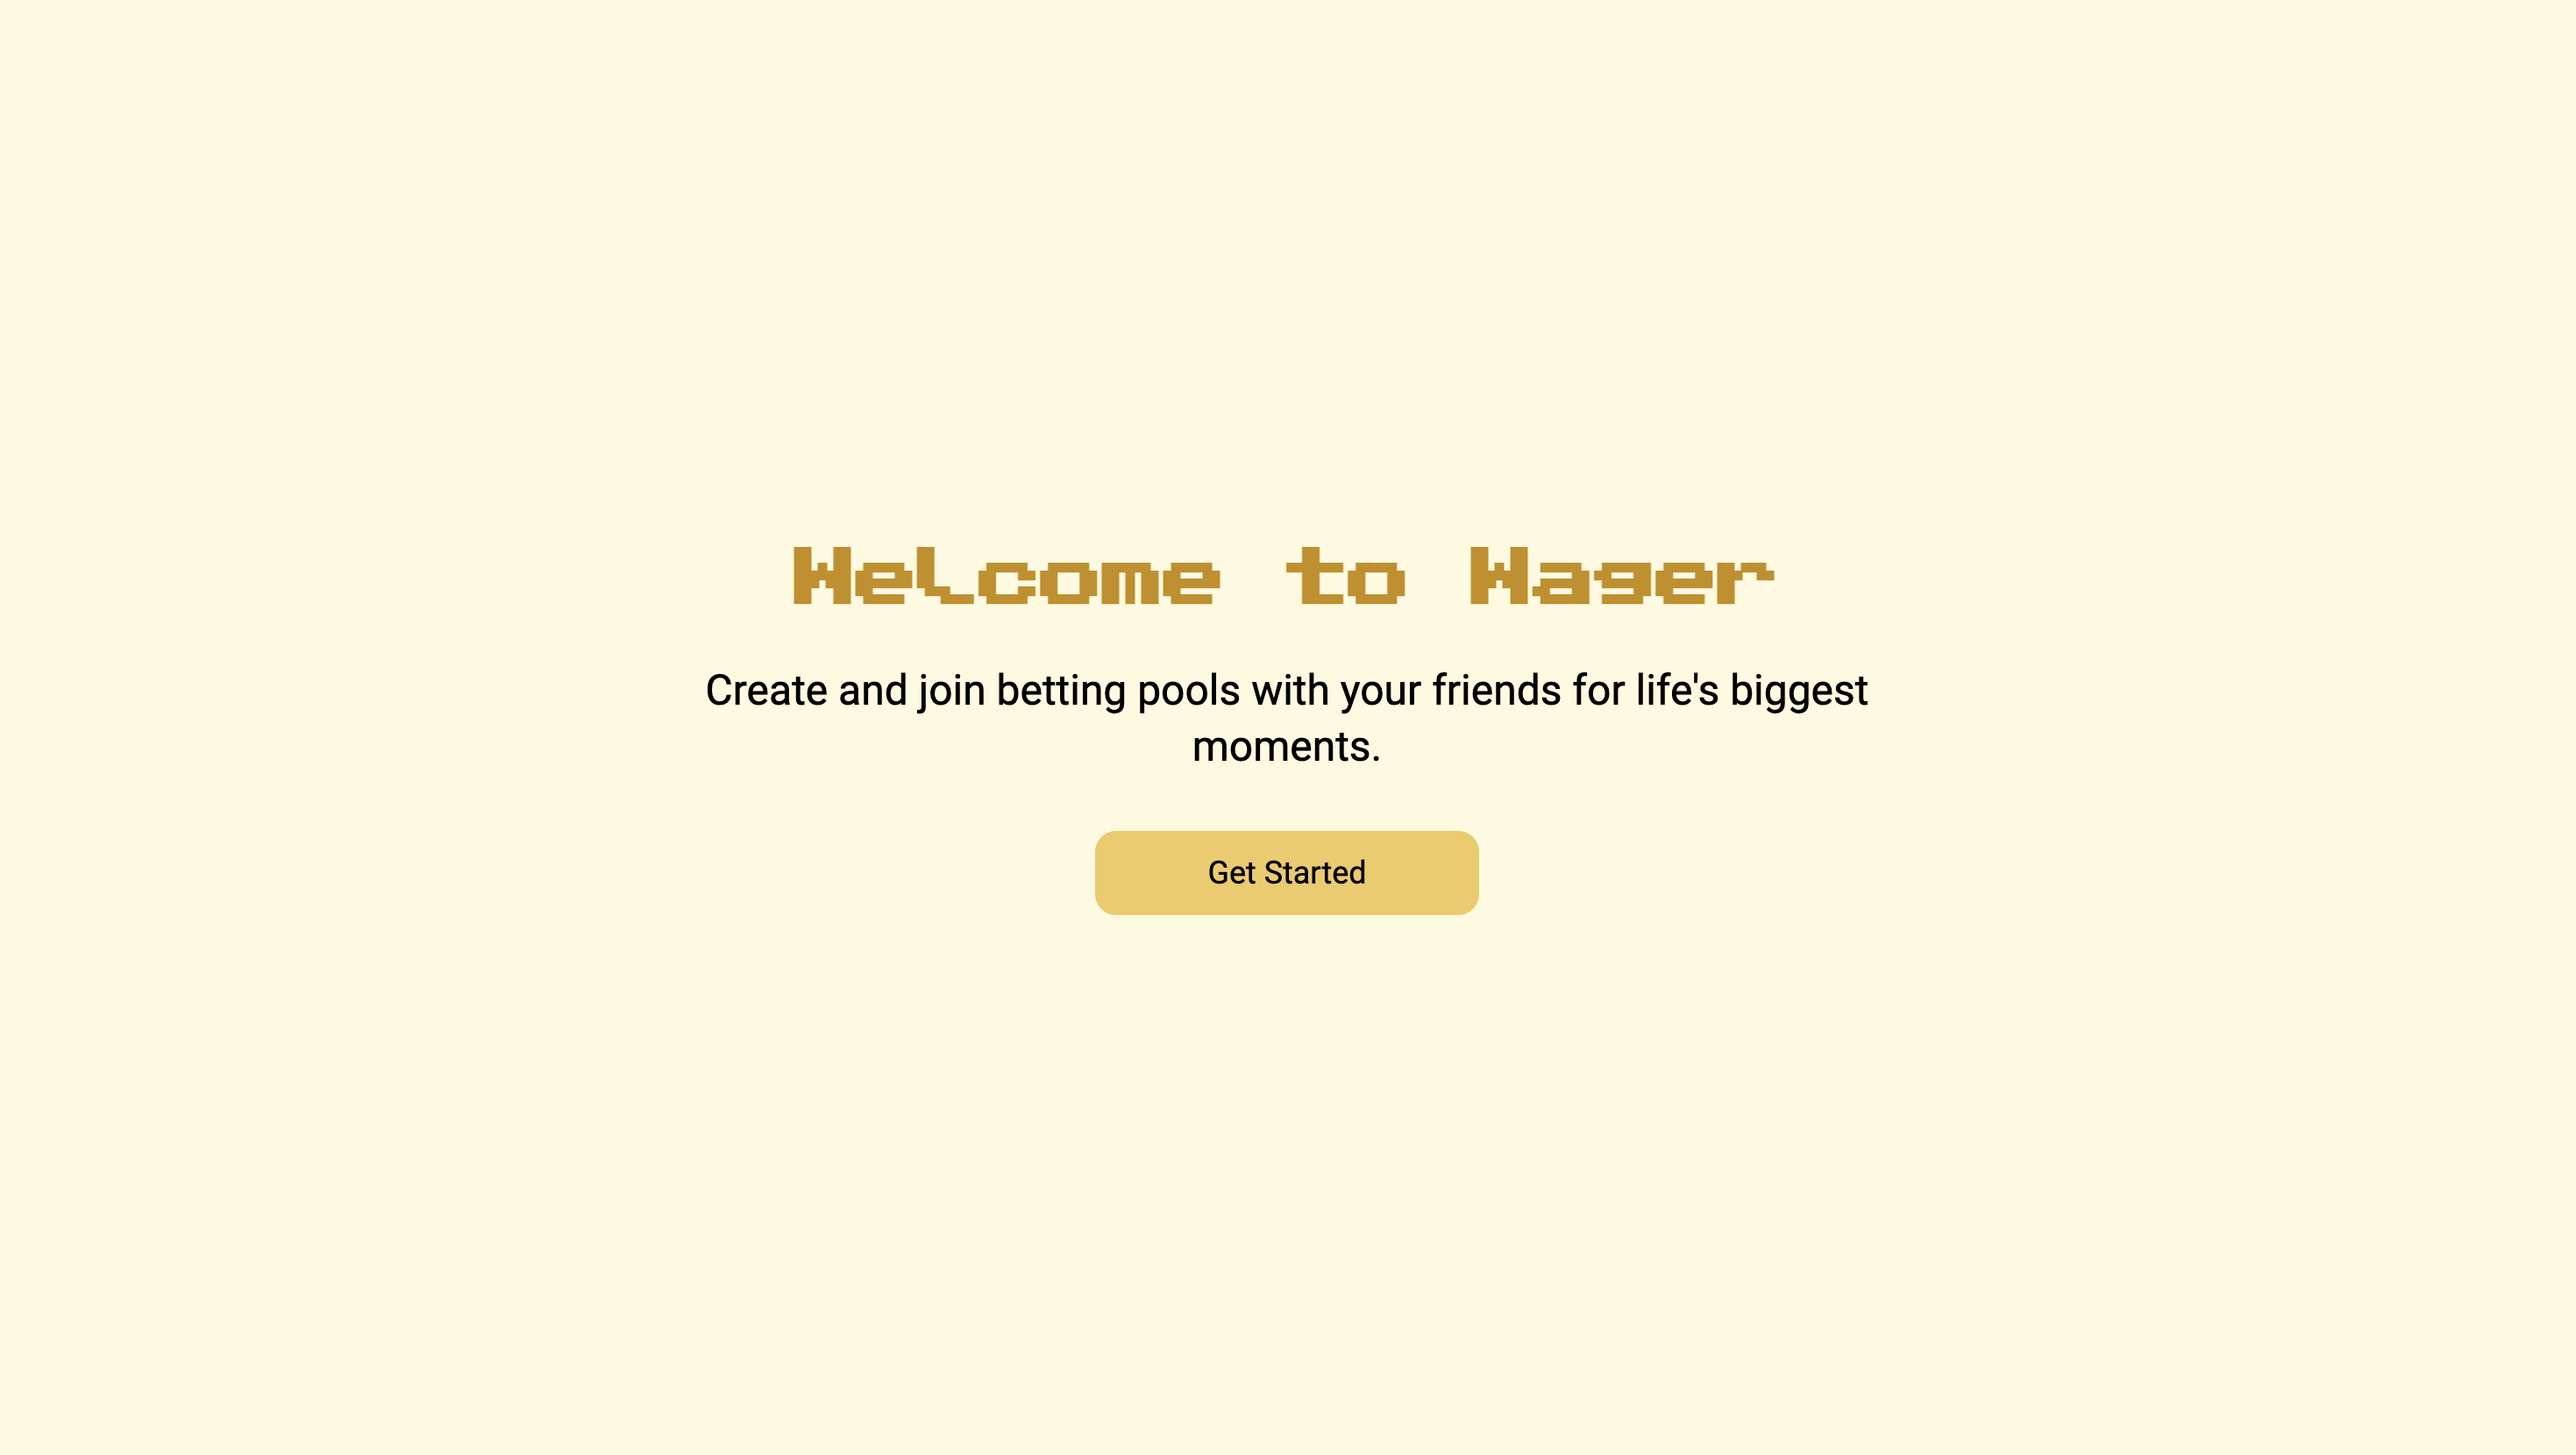
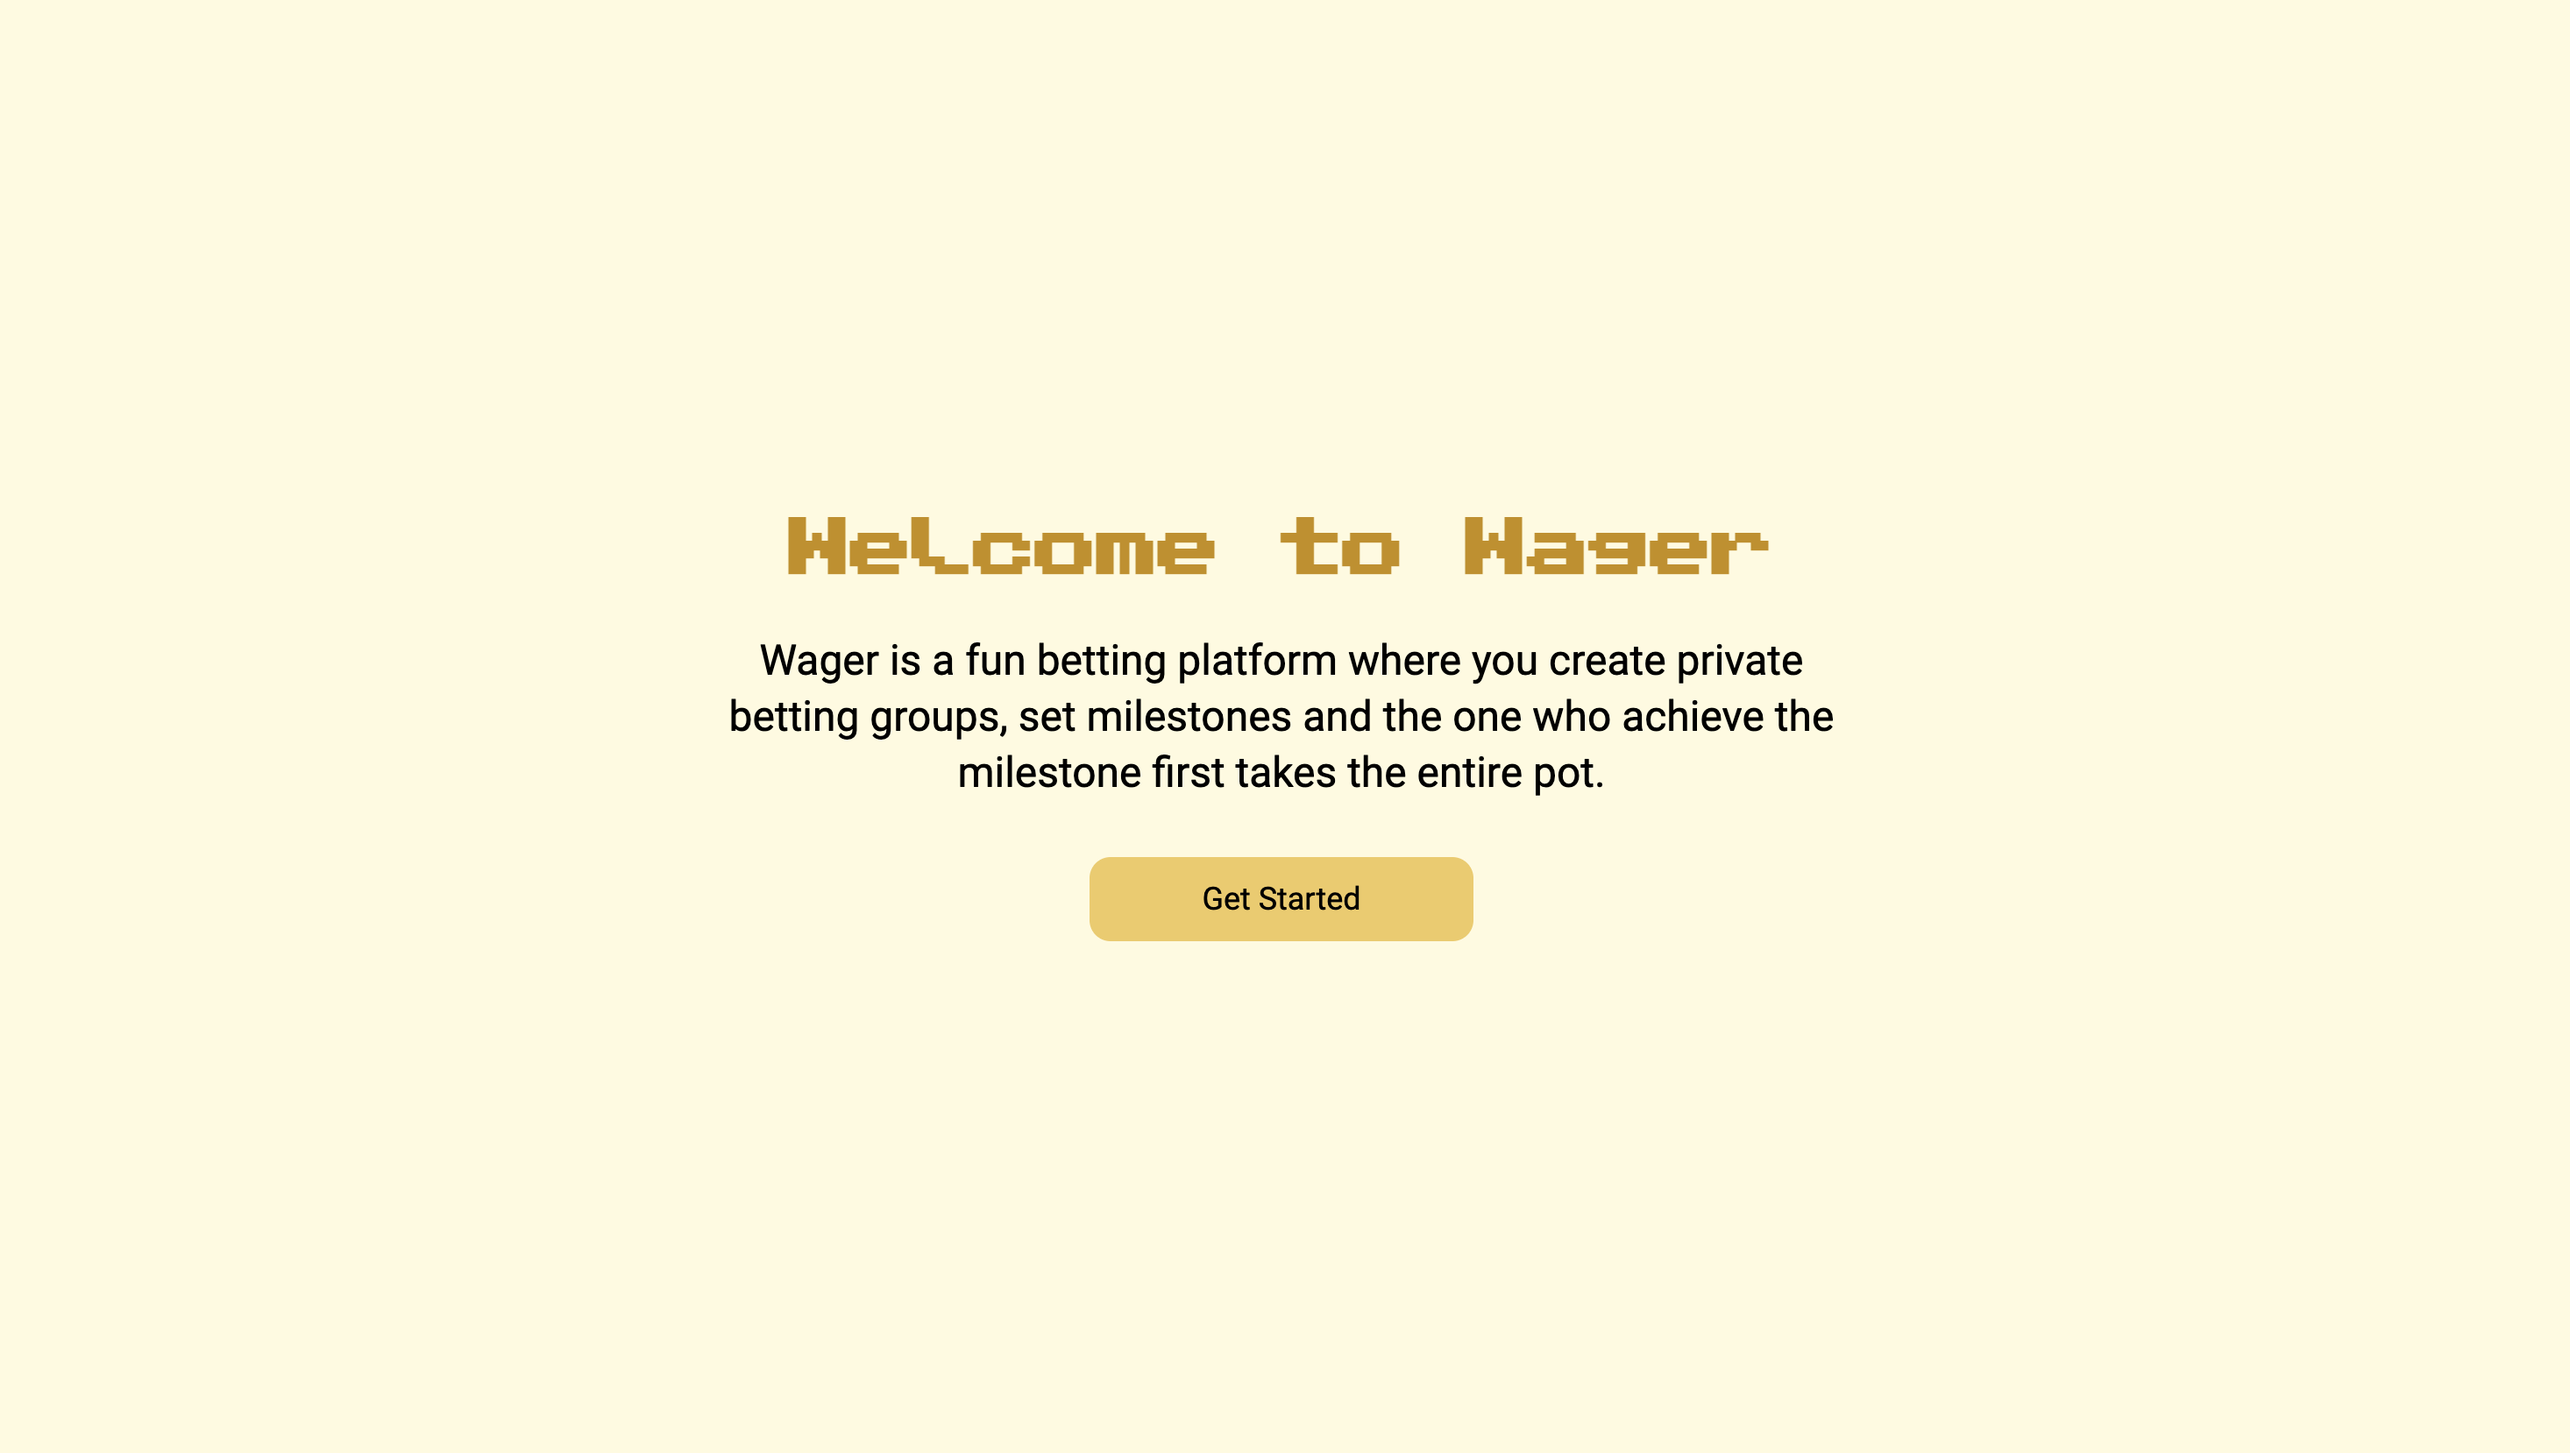
fixed layout

Changed region(s): [[0.2793, 0.3384, 0.7449, 0.646]]

diff --git a/src/app/layout.tsx b/src/app/layout.tsx
@@ -22,13 +22,13 @@ export const metadata: Metadata = {
   openGraph: {
     title: "Wager",
     description:
-      "Create and join betting pools with your friends for life's biggest moments.",
+      "Wager is a fun betting platform where you create private betting groups, set milestones and the one who achieve the milestone first takes the entire pot",
     images: [
       {
         url: "/assets/wager.png", // Make sure to add this image in your public folder
         width: 1200,
         height: 630,
-        alt: "Wager - Create and join betting pools with your friends for life's biggest moments.",
+        alt: "Wager is a fun betting platform where you create private betting groups, set milestones and the one who achieve the milestone first takes the entire pot",
       },
     ],
     locale: "en_US",
@@ -39,7 +39,7 @@ export const metadata: Metadata = {
     card: "summary_large_image",
     title: "Wager",
     description:
-      "Create and join betting pools with your friends for life's biggest moments.",
+      "Wager is a fun betting platform where you create private betting groups, set milestones and the one who achieve the milestone first takes the entire pot",
     images: ["/assets/wager.png"],
   },
 };

diff --git a/src/app/page.tsx b/src/app/page.tsx
@@ -19,8 +19,9 @@ export default async function Home() {
           Welcome to Wager
         </h1>
         <p className="text-xl sm:text-2xl leading-8 font-roboto text-[#000000]">
-          Create and join betting pools with your friends for life&apos;s
-          biggest moments.
+          Wager is a fun betting platform where you create private betting
+          groups, set milestones and the one who achieve the milestone first
+          takes the entire pot
         </p>
         <div className="flex justify-center gap-4">
           <Button
